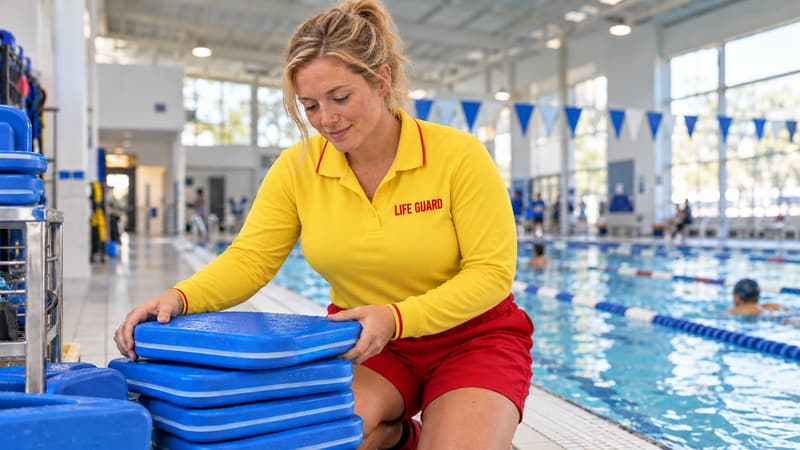
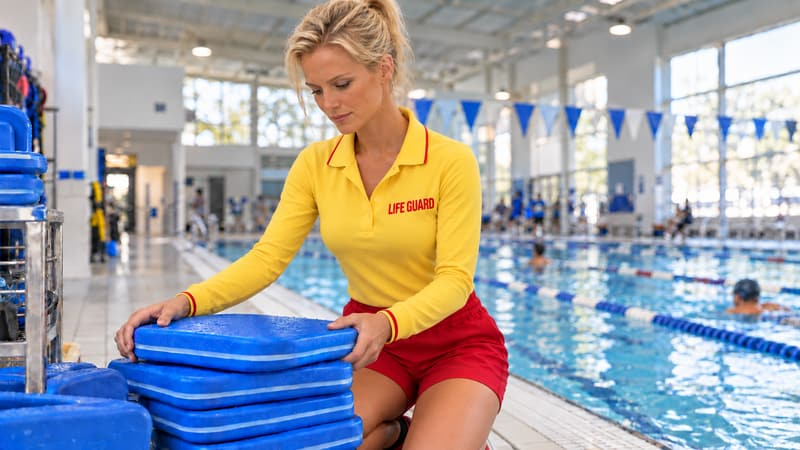
site: swim centres get the final lifeguard photos

diff --git a/swim-leisure.html b/swim-leisure.html
@@ -192,7 +192,7 @@
           <img src="assets/industry-swim-leisure.jpg"
             srcset="assets/industry-swim-leisure-800.jpg 800w, assets/industry-swim-leisure.jpg 1600w"
             sizes="(max-width: 720px) 100vw, 55vw"
-            alt="A lifeguard in a yellow and red uniform stacking kickboards beside an indoor pool, with swimmers in the lanes behind her"
+            alt="A lifeguard in a yellow and red uniform kneeling at the poolside to stack blue kickboards, with swimmers in the lanes behind her"
             width="1600" height="900" fetchpriority="high">
         </div>
       </div>
